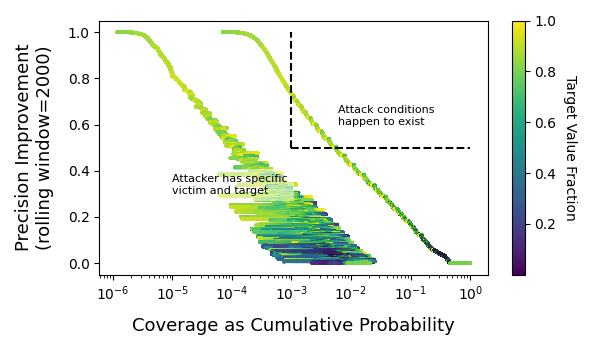
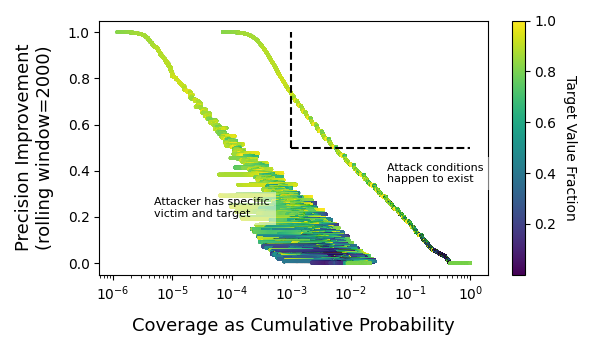
asd

Changed region(s): [[0.24, 0.4857, 0.51, 0.6571], [0.63, 0.4571, 0.81, 0.5429], [0.57, 0.2857, 0.72, 0.3714]]

diff --git a/suppress_threshold_attack.py b/suppress_threshold_attack.py
@@ -278,8 +278,8 @@ def plot_move_avg(df):
     #plt.plot(df_sorted['cdf_to_capt'], df_sorted['moving_avg_pi_fl'], label="Attacker has specific\nvictim and target")
     plt.hlines(0.5, 0.001, 1, colors='black', linestyles='--')
     plt.vlines(0.001, 0.5, 1.0, colors='black', linestyles='--')
-    plt.text(0.04, 0.35, "Attack conditions\nhappen to exist", fontsize=8, bbox=dict(facecolor='white', alpha=0.5, edgecolor='none'))
-    plt.text(0.000005, 0.2, "Attacker has specific\nvictim and target", fontsize=8, bbox=dict(facecolor='white', alpha=0.5, edgecolor='none'))
+    plt.text(0.03, 0.35, "Attack conditions\nhappen to exist", fontsize=8, bbox=dict(facecolor='white', alpha=0.5, edgecolor='none'))
+    plt.text(0.000003, 0.05, "Attacker has specific\nvictim and target", fontsize=8, bbox=dict(facecolor='white', alpha=0.5, edgecolor='none'))
     cbar = plt.colorbar(scatter1)
     cbar.set_label('Target Value Fraction', rotation=270, labelpad=15)
     plt.xscale('log')
